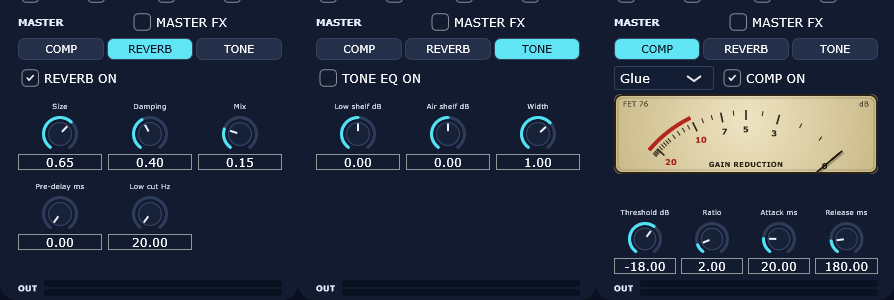
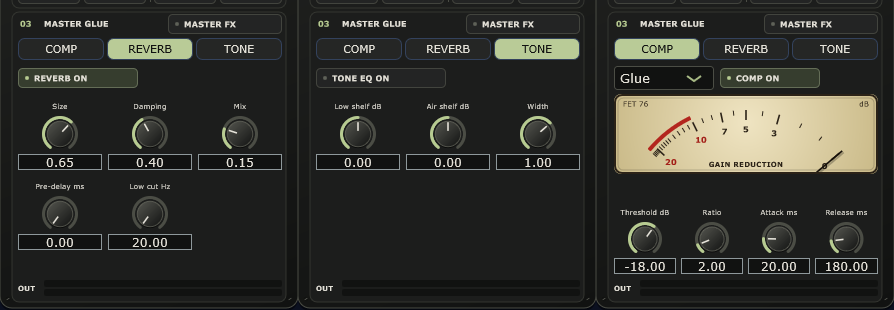
Phase 2 follow-up: needle reads zero with Master FX bypassed, smoothed reverb pre-delay/low cut, clean compressor-type switch, refreshed graphite screenshots
Addresses GPT's review of 327dad3; verified GPT's graphite skin (50c3f9e) on Windows.

diff --git a/chatgpt/DualSynth/Tests/HostTests.cpp b/chatgpt/DualSynth/Tests/HostTests.cpp
@@ -231,6 +231,13 @@ void fetDspTests(){
  {ReverbInputStage stage;stage.prepare(48000);std::vector<float> out(1000);for(int i=0;i<1000;++i){float l=i==0?1.f:0.f,r=l;stage.process(l,r,10.f,20.f);out[size_t(i)]=l;}int first=-1;for(int i=0;i<1000;++i)if(out[size_t(i)]!=0.f){first=i;break;}require(first==480&&out[480]==1.f,"reverb pre-delay of 10 ms delays by exactly 480 samples at 48 kHz");}
  {ReverbInputStage stage;stage.prepare(48000);bool same=true;for(int i=0;i<2000;++i){float l=std::sin(float(i)*.01f),r=std::cos(float(i)*.013f);const float l0=l,r0=r;stage.process(l,r,0.f,20.f);same=same&&l==l0&&r==r0;}require(same,"reverb input stage at its default settings is bit-transparent");}
  {ReverbInputStage stage;stage.prepare(48000);float l=0,r=0;for(int i=0;i<2400;++i){l=r=1.f;stage.process(l,r,0.f,300.f);}require(std::abs(l)<1.e-3f,"reverb low cut removes a constant level");}
+ // Automating pre-delay and low cut does not click: the largest sample-to-sample step stays near that of the plain sine.
+ {auto largestStepAfterChange=[&](float delayFrom,float delayTo,float cutFrom,float cutTo){ReverbInputStage stage;stage.prepare(48000);float previous=0,largest=0;
+   for(int i=0;i<96000;++i){float l=std::sin(MathConstants<float>::twoPi*200.f*float(i)/48000.f),r=l;const bool after=i>=48000;stage.process(l,r,after?delayTo:delayFrom,after?cutTo:cutFrom);if(i>48000)largest=std::max(largest,std::abs(l-previous));previous=l;}return largest;};
+  const float plain=2.f*MathConstants<float>::pi*200.f/48000.f;   // largest step of a unit 200 Hz sine
+  const float delayJump=largestStepAfterChange(0,60,20,20),cutJump=largestStepAfterChange(0,0,20,500);
+  std::cout<<"INFO: reverb input stage, largest sample step after a sudden change: pre-delay 0->60 ms "<<delayJump<<", low cut 20->500 Hz "<<cutJump<<" (a plain sine steps "<<plain<<")\n";
+  require(delayJump<plain*3.f&&cutJump<plain*3.f,"pre-delay and low-cut changes are smoothed (no click)");}
 }
 
 MemoryBlock withoutPhase2Controls(const MemoryBlock& state){
@@ -282,11 +289,25 @@ void phase2HostTests(){
   AudioBuffer<float> one(2,256),two(2,256);bool identical=true;for(int block=0;block<40;++block){MidiBuffer m1,m2;if(block==0){m1.addEvent(MidiMessage::noteOn(1,60,.8f),0);m2.addEvent(MidiMessage::noteOn(1,60,.8f),0);}both->processBlock(one,m1);plain->processBlock(two,m2);for(int c=0;c<2;++c)for(int i=0;i<256;++i)identical=identical&&one.getSample(c,i)==two.getSample(c,i);}
   require(identical,"solo on both strips is the same as no solo");}
  // Meters and the gain-reduction readout.
- {auto host=makeHost();host->write("routing",0);host->write("fet.input",24);host->write("fet.ratio",3);host->prepareToPlay(48000,256);AudioBuffer<float> out(2,256);float reduction=0;
+ {auto host=makeHost();host->write("routing",0);host->write("glue",1);host->write("fet.input",24);host->write("fet.ratio",3);host->prepareToPlay(48000,256);AudioBuffer<float> out(2,256);float reduction=0;
   for(int block=0;block<120;++block){MidiBuffer m;if(block==0)for(int note:{48,55,60,67})m.addEvent(MidiMessage::noteOn(1,note,.9f),0);host->processBlock(out,m);if(block==100)reduction=host->gainReduction.load();}
   std::cout<<"INFO: FET gain reduction readout with +24 dB input, 20:1 on a four-note chord: "<<reduction<<" dB; A left "<<host->levels[0].load()<<", output left "<<host->levels[4].load()<<"\n";
   require(reduction>1.f,"the gain-reduction readout moves when the FET compressor works");require(host->levels[0].load()>0&&host->levels[1].load()>0&&host->levels[4].load()>0&&host->levels[5].load()>0,"stereo meters read signal");
-  host->write("comp",0);for(int block=0;block<4;++block){MidiBuffer m;host->processBlock(out,m);}require(host->gainReduction.load()==0.f,"gain reduction reads zero with the compressor off");}
+  host->write("comp",0);for(int block=0;block<4;++block){MidiBuffer m;host->processBlock(out,m);}require(host->gainReduction.load()==0.f,"gain reduction reads zero with the compressor off");
+  // With Master FX bypassed the compressor's work is inaudible, so the needle must not move.
+  host->write("comp",1);host->write("glue",0);for(int block=0;block<60;++block){MidiBuffer m;host->processBlock(out,m);}
+  std::cout<<"INFO: gain-reduction readout with Master FX bypassed: "<<host->gainReduction.load()<<" dB\n";require(host->gainReduction.load()<.05f,"the gain-reduction needle reads zero while Master FX is bypassed");
+  host->write("glue",1);for(int block=0;block<60;++block){MidiBuffer m;host->processBlock(out,m);}require(host->gainReduction.load()>1.f,"the needle moves again when Master FX is switched on");}
+ // Switching compressor type starts the new type from a clean state: after loud material in FET, a trip through Glue and back
+ // must not leave the FET detector holding old gain reduction.
+ {auto host=makeHost();host->write("routing",0);host->write("glue",1);host->write("fet.input",24);host->write("fet.ratio",3);host->prepareToPlay(48000,256);AudioBuffer<float> out(2,256);
+  for(int block=0;block<100;++block){MidiBuffer m;if(block==0)for(int note:{48,55,60,67})m.addEvent(MidiMessage::noteOn(1,note,.9f),0);host->processBlock(out,m);}
+  require(host->gainReduction.load()>3.f,"switch test: FET is compressing before the switch");
+  host->write("comp.mode",0);for(int block=0;block<20;++block){MidiBuffer m;host->processBlock(out,m);}
+  host->write("a.mute",1);host->write("b.mute",1);for(int block=0;block<40;++block){MidiBuffer m;host->processBlock(out,m);}   // strips muted: the master path sees silence
+  host->write("comp.mode",1);{MidiBuffer m;host->processBlock(out,m);}
+  std::cout<<"INFO: FET gain reduction in the first block after switching back from Glue with silent input: "<<host->gainReduction.load()<<" dB\n";
+  require(host->gainReduction.load()<.01f,"switching compressor type does not leave stale gain reduction behind");}
  // Tap tempo: three taps half a second apart set about 120 BPM on the chosen engine(s) and turn off their host-sync.
  {auto host=makeHost();host->tapTempo();Thread::sleep(500);host->tapTempo();Thread::sleep(500);const float bpm=host->tapTempo();
   std::cout<<"INFO: tap tempo, three taps 500 ms apart: "<<bpm<<" BPM\n";

diff --git a/chatgpt/DualSynth/Source/MasterDsp.h b/chatgpt/DualSynth/Source/MasterDsp.h
@@ -72,26 +72,37 @@ private:
 };
 
 // ---- Reverb input stage: pre-delay and low cut -----------------------------------------------------------------------
+// Both controls are smoothed (about 20 ms) so automating them does not click: the delay tap glides with linear
+// interpolation and the low cut is a filter whose cutoff glides and whose amount fades in and out.
 // With pre-delay 0 and low cut at or below 20 Hz the signal passes through bit-for-bit unchanged, so saved states from
 // before these controls existed sound exactly as they did.
 class ReverbInputStage {
 public:
  static constexpr float maxPreDelayMs=200.f;
- void prepare(double sampleRate){sr=float(sampleRate);size=size_t(maxPreDelayMs*.001f*sr)+2;for(auto& line:buffer)line.assign(size,0.f);reset();}
- void reset(){for(auto& line:buffer)std::fill(line.begin(),line.end(),0.f);head=0;lp[0]=lp[1]=0;}
+ void prepare(double sampleRate){sr=float(sampleRate);size=size_t(maxPreDelayMs*.001f*sr)+4;for(auto& line:buffer)line.assign(size,0.f);smoothing=1.f-std::exp(-1.f/(.02f*sr));reset();}
+ void reset(){for(auto& line:buffer)std::fill(line.begin(),line.end(),0.f);head=0;lp[0]=lp[1]=0;primed=false;}
  void process(float& left,float& right,float preDelayMs,float lowCutHz){
-  const size_t delay=std::min(size-1,size_t(std::max(0.f,preDelayMs)*.001f*sr+.5f));
-  float in[2]={left,right};
-  if(buffer[0].empty()){return;}
-  float out[2]={in[0],in[1]};
-  if(delay>0){for(int c=0;c<2;++c){buffer[size_t(c)][head]=in[c];out[c]=buffer[size_t(c)][(head+size-delay)%size];}}
-  else{for(int c=0;c<2;++c)buffer[size_t(c)][head]=in[c];}
+  if(buffer[0].empty())return;
+  float targetDelay=std::min(float(size-3),std::max(0.f,preDelayMs)*.001f*sr);
+  const float whole=std::round(targetDelay);if(std::abs(targetDelay-whole)<.01f)targetDelay=whole;
+  const float targetCut=std::max(20.f,lowCutHz),targetAmount=lowCutHz>20.5f?1.f:0.f;
+  if(!primed){delay=targetDelay;cut=targetCut;amount=targetAmount;primed=true;}
+  else{delay=glide(delay,targetDelay);cut=glide(cut,targetCut);amount=glide(amount,targetAmount);}
+  const float in[2]={left,right};float out[2]={in[0],in[1]};
+  for(int c=0;c<2;++c)buffer[size_t(c)][head]=in[c];
+  if(delay>0.f){
+   const size_t steps=size_t(delay);const float fraction=delay-float(steps);
+   for(int c=0;c<2;++c){const auto& line=buffer[size_t(c)];const float newer=line[(head+size-steps)%size];
+    out[c]=fraction==0.f?newer:newer+fraction*(line[(head+size-steps-1)%size]-newer);}
+  }
   head=(head+1)%size;
-  if(lowCutHz>20.5f){const float a=1.f-std::exp(-6.2831853f*lowCutHz/sr);for(int c=0;c<2;++c){lp[c]+=a*(out[c]-lp[c]);out[c]-=lp[c];}}
+  const float a=1.f-std::exp(-6.2831853f*cut/sr);
+  for(int c=0;c<2;++c){lp[c]+=a*(out[c]-lp[c]);out[c]-=amount*lp[c];}
   left=out[0];right=out[1];
  }
 private:
- float sr=48000.f;size_t size=0,head=0;std::array<std::vector<float>,2> buffer;float lp[2]{};
+ float glide(float current,float target)const{const float next=current+(target-current)*smoothing;return std::abs(target-next)<1.e-3f?target:next;}
+ float sr=48000.f,smoothing=.001f,delay=0.f,cut=20.f,amount=0.f;size_t size=0,head=0;bool primed=false;std::array<std::vector<float>,2> buffer;float lp[2]{};
 };
 
 }

diff --git a/chatgpt/DualSynth/Source/Host.cpp b/chatgpt/DualSynth/Source/Host.cpp
@@ -168,12 +168,15 @@ void DualProcessor::renderSlice(AudioBuffer<float>& audio,int start,int length,c
   dryLeft[i]=dry[0];dryRight[i]=dry[1];wetLeft[i]=wet[0];wetRight[i]=wet[1];
  }
  // Pass 2: the compressor. "Glue" is the baseline compressor, untouched; "FET 76" is the Phase 2 peak compressor.
+ // Whichever compressor is not in use is kept reset, so switching types always starts the new one from a clean state.
  if(fetMode){
+  compressor.reset();
   if(compOn){
    masterdsp::FetParams fp;fp.inputDb=get(FetInput);fp.outputDb=get(FetOutput);fp.attackUs=get(FetAttack);fp.releaseMs=get(FetRelease);fp.mix=get(FetMix);fp.ratio=int(get(FetRatio));fp.sidechainHighpass=get(FetSidechain)>.5f;
    peak.reduction=std::max(peak.reduction,fet.process(wetLeft,wetRight,length,fp));
   }else fet.reset();
  }else{
+  fet.reset();
   for(int i=0;i<length;++i){
    const float detector=std::max(std::abs(wetLeft[i]),std::abs(wetRight[i]));const float compressed=compressor.processSample(0,detector);
    if(compOn&&detector>1.e-12f){const float reduction=compressed/detector;wetLeft[i]*=reduction;wetRight[i]*=reduction;peak.reduction=std::max(peak.reduction,-masterdsp::gainToDb(reduction));}
@@ -217,7 +220,9 @@ void DualProcessor::processBlock(AudioBuffer<float>& audio,MidiBuffer& midi){
  }
  peaks[0].store(peak.a);peaks[1].store(peak.b);peaks[2].store(peak.master);
  for(size_t i=0;i<levels.size();++i)levels[i].store(peak.level[i]);
- gainReduction.store(peak.reduction);midi.clear();
+ // The needle shows compression you can hear: it is scaled by how much of the master-effects path is blended in,
+ // so it reads zero while Master FX is bypassed (the detector keeps running underneath).
+ gainReduction.store(peak.reduction*jlimit(0.f,1.f,fxBlend.getCurrentValue()));midi.clear();
 }
 void DualProcessor::getStateInformation(MemoryBlock& block){const ScopedLock recall(recallLock);ValueTree tree=state.copyState();MemoryBlock sa,sb;a.getStateInformation(sa);b.getStateInformation(sb);tree.setProperty("engineA",sa.toBase64Encoding(),nullptr);tree.setProperty("engineB",sb.toBase64Encoding(),nullptr);tree.setProperty("panel",panel.load(),nullptr);MemoryOutputStream output(block,false);tree.writeToStream(output);}
 

diff --git a/reviews/phase2-followup-claude.md b/reviews/phase2-followup-claude.md
@@ -1,0 +1,25 @@
+# Phase 2 follow-up — graphite skin verified, GPT's review items handled (Claude)
+
+Base: GPT's `design/graphite-phase2` (`50c3f9e`, parent `327dad3`) fast-forwarded into `integration/dual-synth`, plus the fixes below.
+`design/graphite-sidebar` (`0c806e5`) is the earlier skin made on Phase 1 and is superseded: it is based on `240f29e`, so it lacks every Phase 2 control and its tests; do not merge it.
+Environment: Windows 11, MSVC 19.44, JUCE 8.0.9 vendored, Release x64. **macOS, DAW, listening: not run by Claude.**
+
+## Verification of GPT's graphite commit (RAN, Windows)
+Builds clean; `DualTests` PASS on the default stack, including the catalog check (810 baseline, 16 added, 0 missing, 0 changed) and the pre-Phase-2 golden render (largest difference exactly 0); `DualProbe` PASS on the built VST3; standalone alive for 6 s. Screenshots reviewed by eye: Ember side, Prism side, REVERB, TONE and Glue views. The new graphite skin has no overlaps or clipped text at 1600x840. The panel header reads "03 MASTER GLUE" although the section also holds the FET 76; GPT/Arash may want to rename it "03 MASTER".
+GPT's catalog tolerance (for float-normalisation text differences between compilers) is reasonable; on Windows the comparison is exact.
+
+## GPT's review findings and what was done
+| GPT finding | Verdict | Change |
+|---|---|---|
+| `fet.hpf` had no panel control | **Confirmed, Claude's omission.** | Fixed by GPT's "90 Hz SC" switch (existing ID). Windows render shows it in the COMP tab. |
+| Gain-reduction needle moved while Master FX was bypassed | **Confirmed.** (It read 12.7 dB with FX off in my own earlier test, which I had mis-framed as correct.) | The readout is now scaled by the smoothed Master FX blend, so it reads 0 while bypassed and fades in with the switch. New test: bypassed readout 0 dB; reads > 1 dB again with FX on. The detector still runs underneath. |
+| Reverb send could click when pre-delay or low cut changed | **Confirmed by reading, now fixed.** | Both are smoothed (about 20 ms): the delay tap glides with linear interpolation, the low-cut cutoff glides and its amount fades in and out. At defaults the stage is still bit-transparent (pre-delay 0 / low cut 20 Hz pass the signal unchanged; the golden render difference stays 0). New test: largest sample step after a sudden pre-delay 0->60 ms change is 0.052 and after a low cut 20->500 Hz change 0.026, versus 0.026 for a plain 200 Hz sine (a click would be about 2.0). |
+| Switching compressor type could resume stale detector history | **Confirmed by reading, now fixed.** | The unused compressor is reset every slice, so a switch always starts the new type clean. New test: after loud FET material, a trip through Glue and back reads 0 dB in the first block with silent input. |
+
+The new tests were not mutation-tested (I did not run them against the old code to watch them fail). The gain-reduction one is backed by GPT's own reproduction of 12.7 dB with FX off.
+
+## Still open
+1. Pre-Phase-2 items unchanged: no listening, no DAW, no macOS run by Claude; FET 76 tuning is by measurement only.
+2. Needle and meter ballistics were judged on static renders only.
+3. A real compressor-type switch is still an abrupt gain change (no crossfade between the two types). It is clean (no stale state) but not seamless.
+4. The "GLUE" / "FET 76" caption on the meter is set from the UI timer, so offscreen snapshots made without the timer show "FET 76" in Glue view.

diff --git a/chatgpt/DualSynth/README.md b/chatgpt/DualSynth/README.md
@@ -26,7 +26,7 @@ The optional section processes only the summed stereo output: a stereo-linked co
 
 - **Mixer:** each strip has level, pan (centre is exactly unity), mute, **solo** and a stereo level bar; the output has its own stereo bar. Muted and solo-excluded engines keep processing.
 - **Routing:** **Swap** puts A on the high keys and B on the low keys in Split mode. **TAP** sets tempo from your taps (average of up to 8, restarts after 2 s) on both engines, A or B (menu next to it) and turns their *Follow host* off.
-- **Master compressor:** choose **FET 76** or **Glue** (the original compressor, unchanged). FET 76 is a fast peak compressor in the style of classic FET limiting amplifiers: Input drives the signal into a fixed threshold, Output trims, Attack 20-800 us, Release 50-1100 ms, ratio buttons 4 / 8 / 12 / 20 and ALL, parallel Mix and a 90 Hz sidechain filter. An analog-style needle meter shows gain reduction for both types. It adds no latency. New instances start on FET 76; performances saved before Phase 2 reload on Glue.
+- **Master compressor:** choose **FET 76** or **Glue** (the original compressor, unchanged). FET 76 is a fast peak compressor in the style of classic FET limiting amplifiers: Input drives the signal into a fixed threshold, Output trims, Attack 20-800 us, Release 50-1100 ms, ratio buttons 4 / 8 / 12 / 20 and ALL, parallel Mix and a 90 Hz sidechain filter. The **90 Hz SC** switch turns the sidechain filter on or off. An analog-style needle meter shows the gain reduction you can hear, for both types (it reads zero while Master FX is bypassed). It adds no latency. New instances start on FET 76; performances saved before Phase 2 reload on Glue.
 - **Reverb:** added **pre-delay** (0-100 ms) and **low cut** (20-600 Hz) on the reverb send; at their defaults the reverb is bit-for-bit what it was.
 - The master section has three tabs: COMP, REVERB and TONE (EQ and width). **Master FX is still off by default.**
 - FET 76 values were set by measurement, not by ear. See `reviews/phase2-claude.md` for the numbers and for what was not tested.
